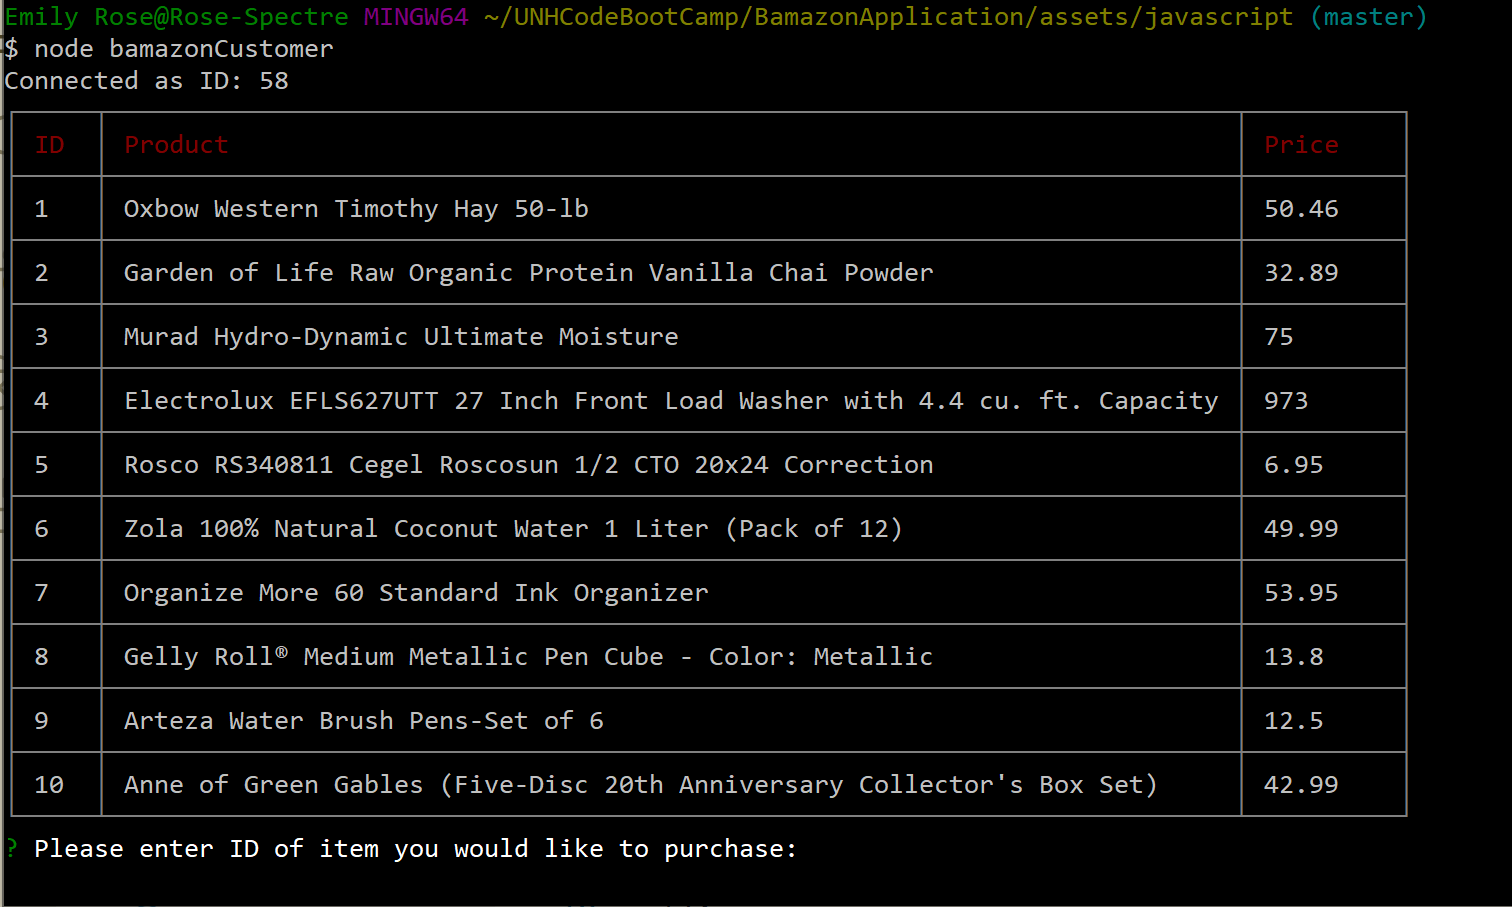
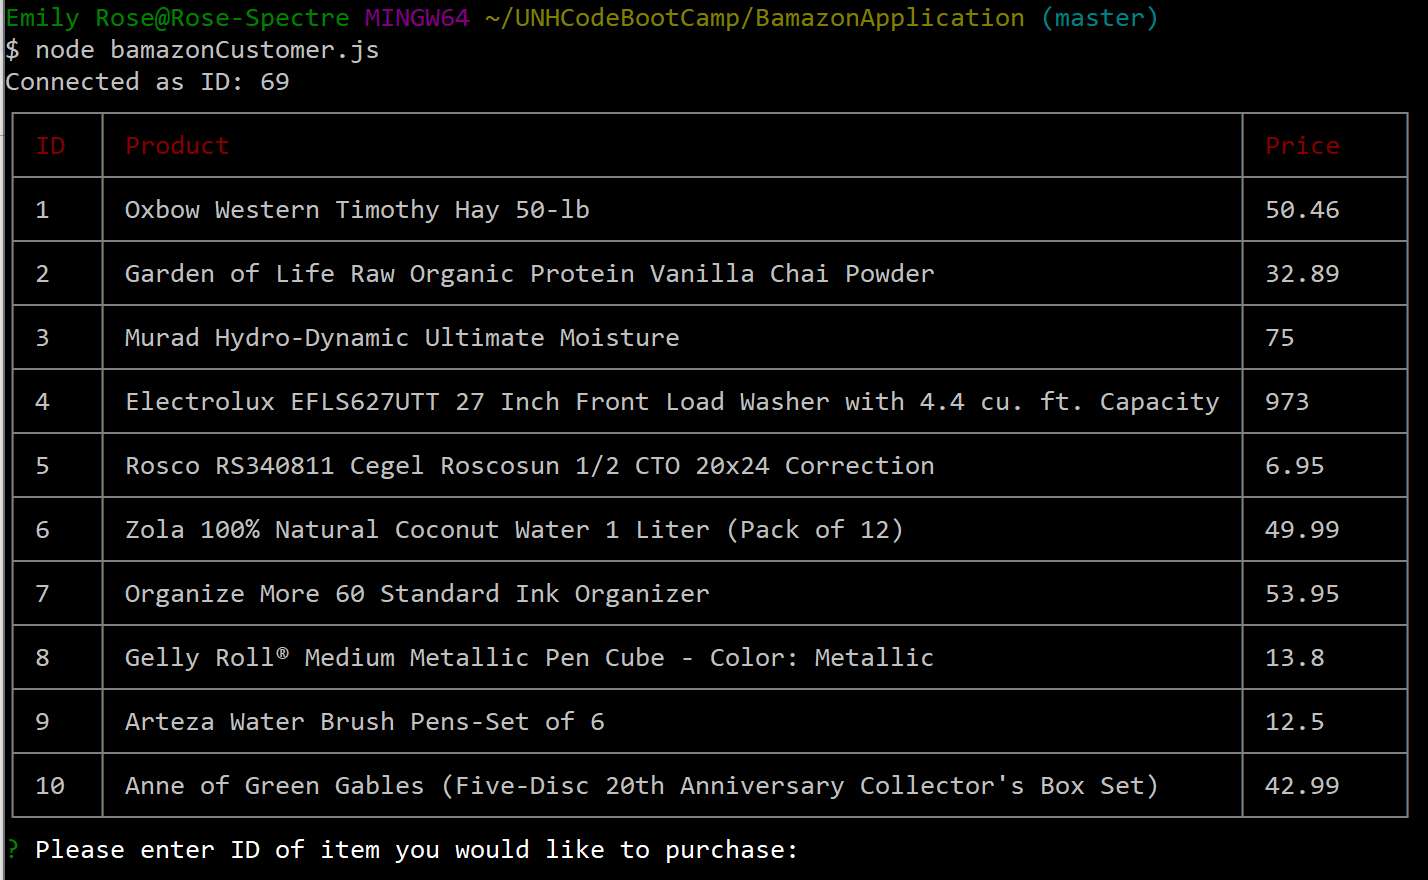
Replaced image & updated ReadMe

Changed region(s): [[0.0, 0.0, 0.986, 1.0]]

diff --git a/README.md b/README.md
@@ -3,7 +3,7 @@ Bamazon is an Amazon-like storefront that works with the command line node app, 
 
 # How to use
 1. Open a console app such as Bash.
-2. Navigate to the `bamazonCustomer.js` file in `BamazonApplication/assets/javascript/`
+2. Navigate to the `bamazonCustomer.js` file in `BamazonApplication/`
 3. Enter the following command:
     * `node bamazonCustomer`
         * Results: Items in the Bamazon inventory will be displayed along with a prompt to enter the ID of the item you would like to purchase
